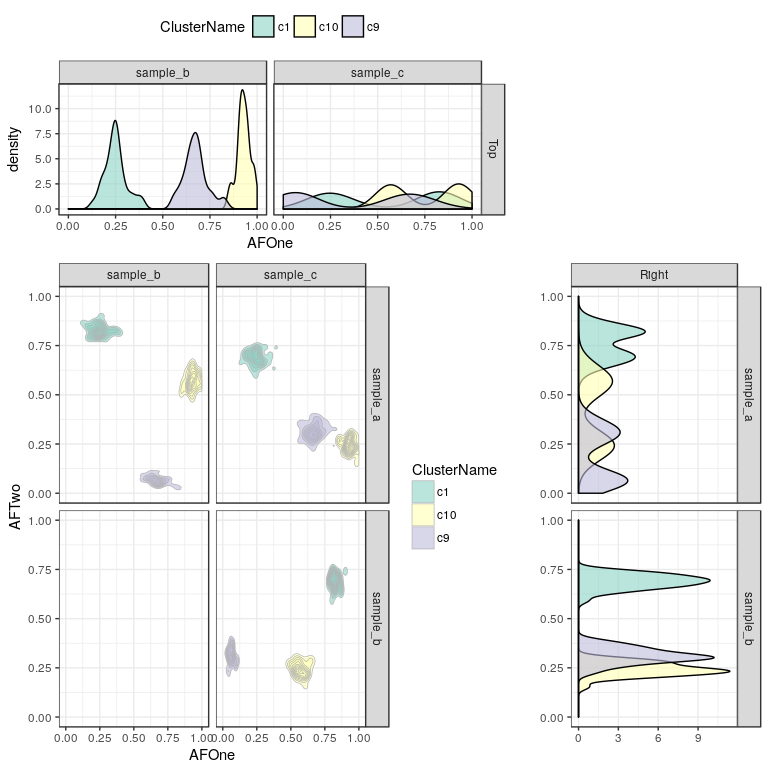
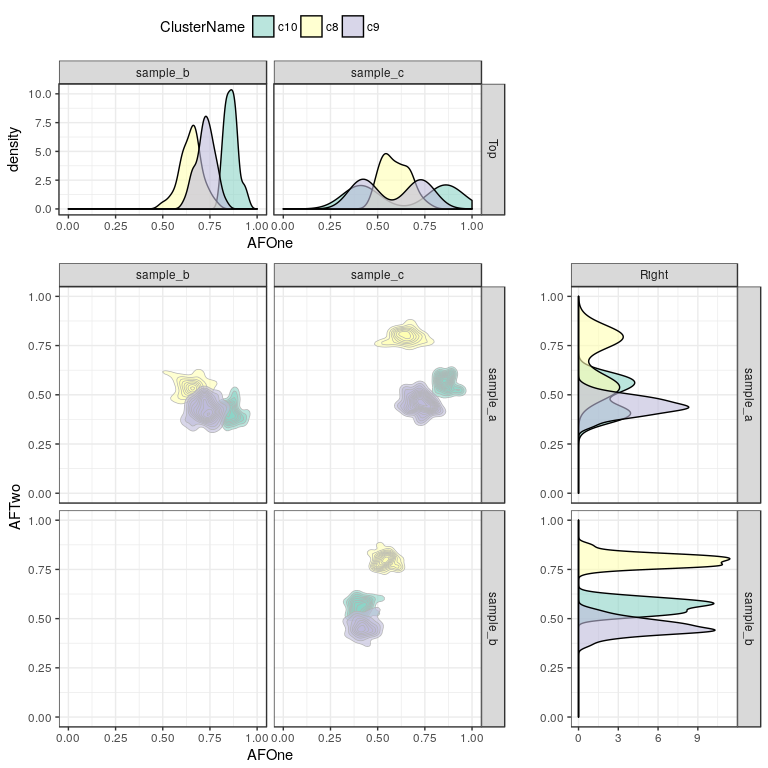
Fixed shape parameters in the createModel function and added option to provide shape parameters to the clusterSamples function.

diff --git a/README.md b/README.md
@@ -69,7 +69,7 @@ many samples in it.
     ##   cluster.weight[clustIdx] <- delta[clustIdx] / sum(delta[])
     ## }
     ## alpha1 ~ dbeta(shape1, shape2)
-    ## alpha2 ~ dbeta(shape2, shape2)
+    ## alpha2 ~ dbeta(shape1, shape2)
     ## }
 
 Input Data format
@@ -87,21 +87,21 @@ We can simulate some data to demonstrate the modelling functionality:
 
     ## $Coverage
     ##       sample_a sample_b sample_c
-    ## snv_1       63       98      173
-    ## snv_2       55      116      189
-    ## snv_3       53      113      187
-    ## snv_4       61      118      210
-    ## snv_5       61      115      168
-    ## snv_6       57      124      142
+    ## snv_1       59      114      188
+    ## snv_2       61      114      175
+    ## snv_3       44      125      162
+    ## snv_4       47      123      193
+    ## snv_5       62      136      185
+    ## snv_6       48      124      181
     ## 
     ## $Support
     ##       sample_a sample_b sample_c
-    ## snv_1       20       79      129
-    ## snv_2       38        6       56
-    ## snv_3       49       57       49
-    ## snv_4       11       94      146
-    ## snv_5       39        9       50
-    ## snv_6       57       68       28
+    ## snv_1       46       64      145
+    ## snv_2       43       55       77
+    ## snv_3       37       42       95
+    ## snv_4       30       64      149
+    ## snv_5       48       57       80
+    ## snv_6       39       55      102
 
 Modelling
 =========
